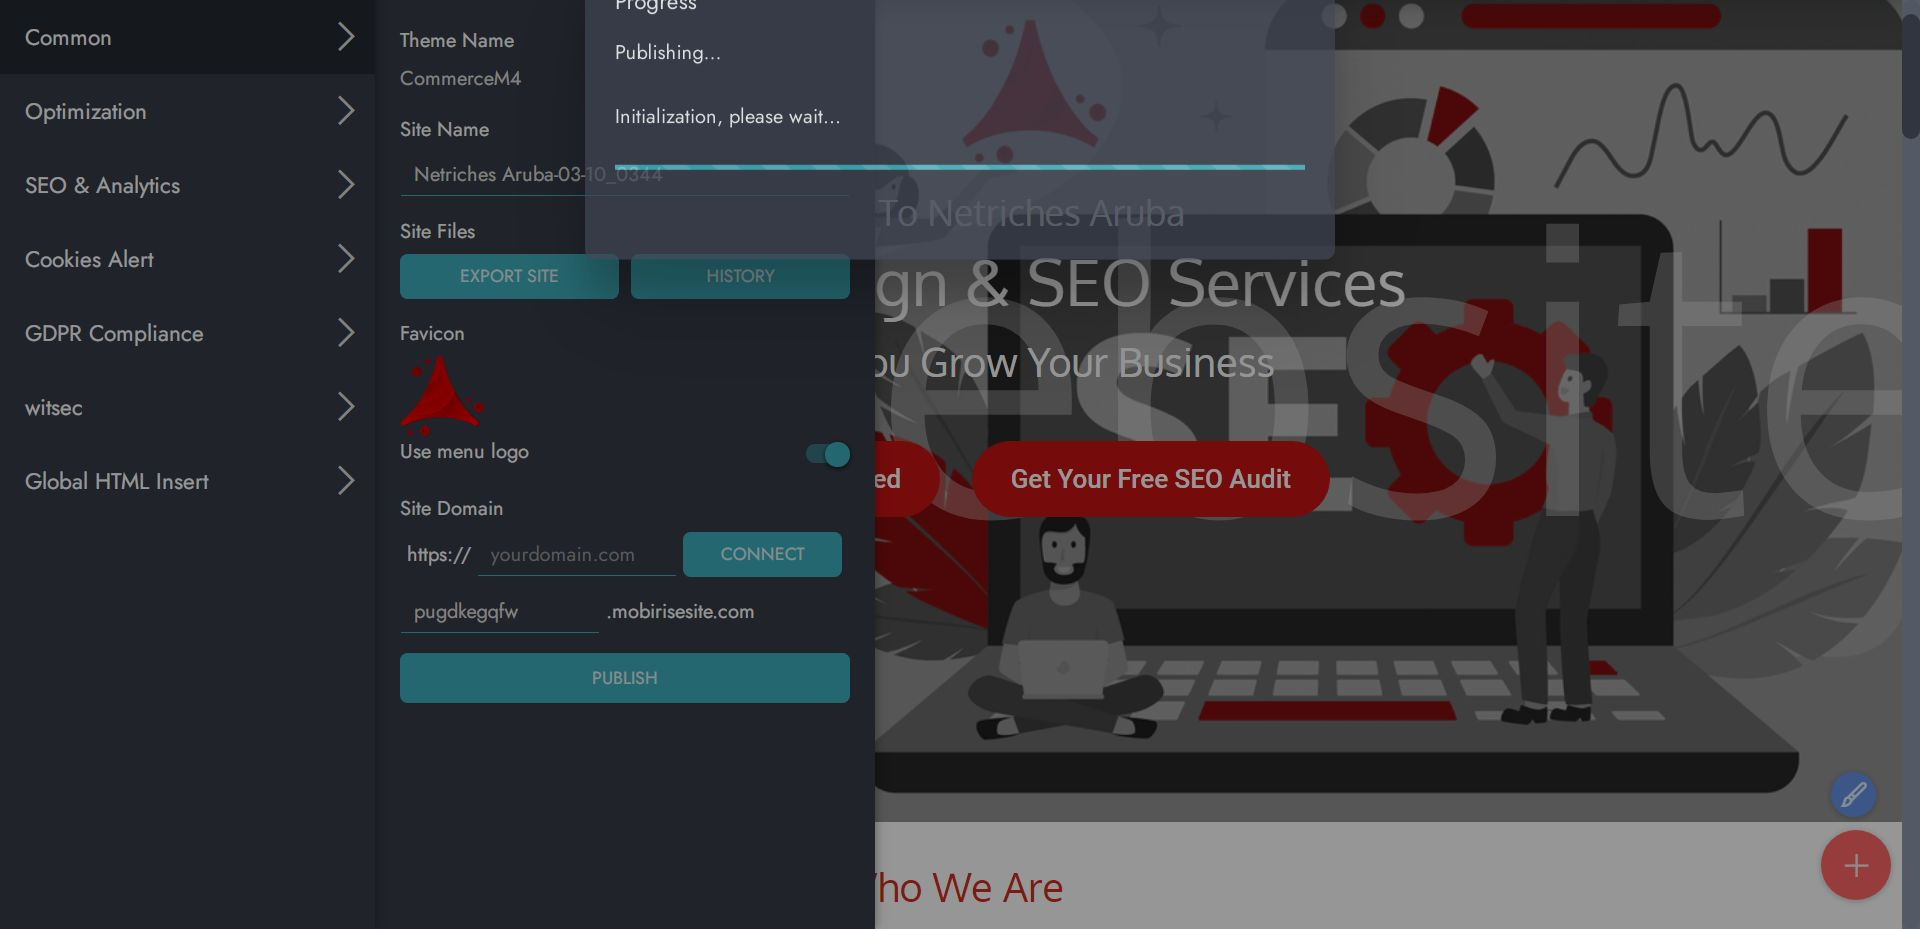
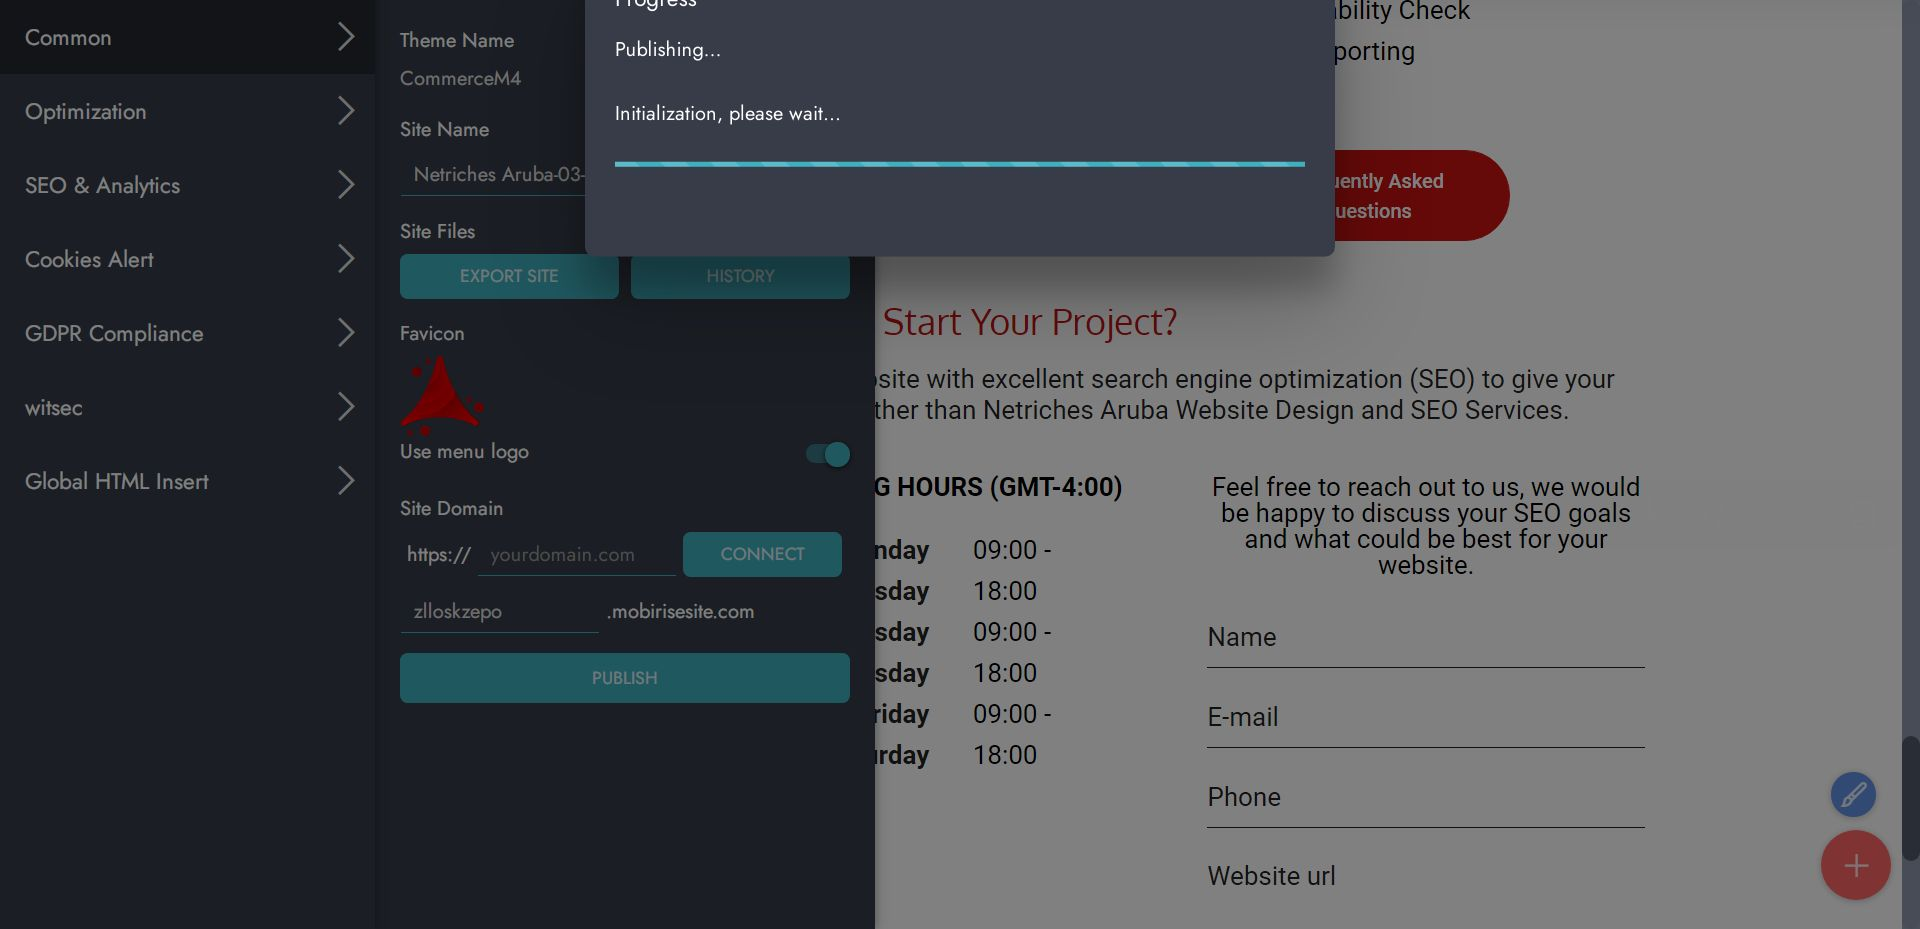
Our Web Design and SEO Services

diff --git a/netrichesaruba-SEO-faqs.html b/netrichesaruba-SEO-faqs.html
@@ -185,16 +185,16 @@ Dynamic sites use server side languages to process requests at the time it’s m
         <div class="row justify-content-center pt-4">
             <div class="col-md-10 col-lg-8 content-block">
             <div class="accordion-content">
-                <div id="bootstrap-accordion_70" class="panel-group accordionStyles accordion " role="tablist" aria-multiselectable="true">
+                <div id="bootstrap-accordion_69" class="panel-group accordionStyles accordion " role="tablist" aria-multiselectable="true">
                         <div class="card">
                             <div class="card-header" role="tab" id="headingOne">
-                                <a role="button" class="collapsed panel-title text-white" data-toggle="collapse" data-core="" href="#collapse1_70" aria-expanded="false" aria-controls="collapse1">
+                                <a role="button" class="collapsed panel-title text-white" data-toggle="collapse" data-core="" href="#collapse1_69" aria-expanded="false" aria-controls="collapse1">
                                     <h4 class="mbr-fonts-style header-text display-7">Why is search engine optimization important to a business?</h4>
                                     <span class="sign mbr-iconfont mbri-arrow-down inactive"></span>
 
                                 </a>
                             </div>
-                            <div id="collapse1_70" class="panel-collapse noScroll collapse" role="tabpanel" aria-labelledby="headingOne" data-parent="#bootstrap-accordion_70">
+                            <div id="collapse1_69" class="panel-collapse noScroll collapse" role="tabpanel" aria-labelledby="headingOne" data-parent="#bootstrap-accordion_69">
                                 <div class="panel-body p-4">
                                     <p class="mbr-fonts-style panel-text mbr-text display-7"><strong>
                                        Search engine optimization (SEO) is important because: </strong>SEO (Search engine optimization) is the process of making a web page easy to find, easy to crawl, and easy to categorize. SEO is good for the social promotion of your web site.<br><br>Consumers today live in a digital world. According to Accenture, an estimated 94% of B2B buyers say that they search online before making a purchase. Brands that do not take the initiative to leverage and understand the importance of SEO will be left behind and miss out on a great deal of value they could be adding to their business.<br></p>
@@ -204,13 +204,13 @@ Dynamic sites use server side languages to process requests at the time it’s m
                 
                         <div class="card">
                             <div class="card-header" role="tab" id="headingTwo">
-                                <a role="button" class="collapsed panel-title text-white" data-toggle="collapse" data-core="" href="#collapse2_70" aria-expanded="false" aria-controls="collapse2">
+                                <a role="button" class="collapsed panel-title text-white" data-toggle="collapse" data-core="" href="#collapse2_69" aria-expanded="false" aria-controls="collapse2">
                                     <h4 class="mbr-fonts-style header-text display-7">What is the SEO in marketing? &nbsp; &nbsp; &nbsp; &nbsp; &nbsp; &nbsp; &nbsp; &nbsp; &nbsp; &nbsp; &nbsp; &nbsp; &nbsp; &nbsp; &nbsp; &nbsp; &nbsp; &nbsp;&nbsp;</h4>
                                     <span class="sign mbr-iconfont mbri-arrow-down inactive"></span>
                                 </a>
                                 
                             </div>
-                            <div id="collapse2_70" class="panel-collapse noScroll collapse" role="tabpanel" aria-labelledby="headingTwo" data-parent="#bootstrap-accordion_70">
+                            <div id="collapse2_69" class="panel-collapse noScroll collapse" role="tabpanel" aria-labelledby="headingTwo" data-parent="#bootstrap-accordion_69">
                                 <div class="panel-body p-4">
                                     <p class="mbr-fonts-style panel-text mbr-text display-7"><strong>
                                        SEO </strong>is an integral part of any <strong>Digital Marketing Strategy</strong>. It is basically concerned with a holistic move towards driving customers to your business via online platforms. Digital marketing is sending out the name of your products or services to the targeted audience through the digital medium through paid promotions. Digital marketing has gone through many stages, and now we are here where merely social media occupy almost 80 to 85 percent of the digital marketing.</p>
@@ -220,13 +220,13 @@ Dynamic sites use server side languages to process requests at the time it’s m
                 
                         <div class="card">
                             <div class="card-header" role="tab" id="headingThree">
-                                <a role="button" class="collapsed panel-title text-white" data-toggle="collapse" data-core="" href="#collapse3_70" aria-expanded="false" aria-controls="collapse3">
+                                <a role="button" class="collapsed panel-title text-white" data-toggle="collapse" data-core="" href="#collapse3_69" aria-expanded="false" aria-controls="collapse3">
                                     <h4 class="mbr-fonts-style header-text display-7">Design and Web Development?</h4>
                                     <span class="sign mbr-iconfont mbri-arrow-down inactive"></span>
 
                                 </a>
                             </div>
-                            <div id="collapse3_70" class="panel-collapse noScroll collapse" role="tabpanel" aria-labelledby="headingThree" data-parent="#bootstrap-accordion_70">
+                            <div id="collapse3_69" class="panel-collapse noScroll collapse" role="tabpanel" aria-labelledby="headingThree" data-parent="#bootstrap-accordion_69">
                                 <div class="panel-body p-4">
                                     <p class="mbr-fonts-style panel-text mbr-text display-7"><strong>Developers</strong> build a website’s core structure using coding languages, while <strong>Designers</strong> are more visually creative and user-focused. Developers use their programming knowledge to breathe life into the designer’s creative vision. Think of developers as construction workers, and web designers as architects – both necessary, but different, skill sets.</p>
                                 </div>
@@ -235,13 +235,13 @@ Dynamic sites use server side languages to process requests at the time it’s m
                 
                         <div class="card">
                             <div class="card-header" role="tab" id="headingFour">
-                                <a role="button" class="collapsed panel-title text-white" data-toggle="collapse" data-core="" href="#collapse4_70" aria-expanded="false" aria-controls="collapse4">
+                                <a role="button" class="collapsed panel-title text-white" data-toggle="collapse" data-core="" href="#collapse4_69" aria-expanded="false" aria-controls="collapse4">
                                     <h4 class="mbr-fonts-style header-text display-7">Static vs Dynamic Website Design? &nbsp; &nbsp; &nbsp; &nbsp; &nbsp; &nbsp; &nbsp; &nbsp; &nbsp; &nbsp; &nbsp; &nbsp; &nbsp; &nbsp; &nbsp; &nbsp; &nbsp;&nbsp;</h4>
                                     <span class="sign mbr-iconfont mbri-arrow-down inactive"></span>
 
                                 </a>
                             </div>
-                            <div id="collapse4_70" class="panel-collapse noScroll collapse" role="tabpanel" aria-labelledby="headingFour" data-parent="#bootstrap-accordion_70">
+                            <div id="collapse4_69" class="panel-collapse noScroll collapse" role="tabpanel" aria-labelledby="headingFour" data-parent="#bootstrap-accordion_69">
                                 <div class="panel-body p-4">
                                     <p class="mbr-fonts-style panel-text mbr-text display-7">With <strong>static websites</strong>, the individual web pages are shown to the user as they are stored. In the case of the CLT website, we use a so-called Static Site Generator to build these static pages. Simply put, the static site generator is a program that converts source files into web pages. These source files are templates that are enriched with data by the static site generator. This data can be retrieved through an API from a third party during this process if necessary.<br><br><strong>Dynamic sites</strong> use server side languages to process requests at the time it’s made and generate a page and its contents in real-time. This means that dynamic websites interact with the user accessing the site and render content depending on the user’s actions or settings. One example of a dynamic website is web apps. Take Twitter as an example: when you log in, it displays content just for you.</p>
                                 </div>
@@ -250,13 +250,13 @@ Dynamic sites use server side languages to process requests at the time it’s m
                 
                         <div class="card">
                             <div class="card-header" role="tab" id="headingFive">
-                                <a role="button" class="collapsed panel-title text-white" data-toggle="collapse" data-core="" href="#collapse5_70" aria-expanded="false" aria-controls="collapse5">
+                                <a role="button" class="collapsed panel-title text-white" data-toggle="collapse" data-core="" href="#collapse5_69" aria-expanded="false" aria-controls="collapse5">
                                     <h4 class="mbr-fonts-style header-text display-7">What is a website audit and why do I need one?</h4>
                                     <span class="sign mbr-iconfont mbri-arrow-down inactive"></span>
 
                                 </a>
                             </div>
-                            <div id="collapse5_70" class="panel-collapse noScroll collapse" data-parent="#bootstrap-accordion_70" role="tabpanel" aria-labelledby="headingFive">
+                            <div id="collapse5_69" class="panel-collapse noScroll collapse" data-parent="#bootstrap-accordion_69" role="tabpanel" aria-labelledby="headingFive">
                                 <div class="panel-body p-4">
                                     <p class="mbr-fonts-style panel-text mbr-text display-7">
                                        If you already have a website and are ready to improve its search engine visibility, then a website audit (or “<strong>site audit</strong>”) is a good starting point. An SEO audit is standard procedure for any website. In fact, if you are serious about your<strong> internet business</strong>, you will make sure you do it frequently. An SEO audit is the process of analyzing how well your web presence relates to best practices. It is the first step to creating an implementation plan that will have measurable results on website structure issues. On-page SEO issues. Potential off-site problems. User experience issues.</p>

diff --git a/index.html b/index.html
@@ -749,10 +749,7 @@
                     <span>Saturday</span><br>
                 </div>
                 <div class="col-5 hours-column mbr-fonts-style align-left mbr-text display-7">
-                    <span>09:00 - 18:00</span>
-                    <span>09:00 - 18:00</span>
-                    <span>09:00 - 18:00</span>
-                    <span>09:00 - 18:00</span>
+                    <span><span style="display: inline !important;">09:00 - 18:00</span><br></span>
                     <span>09:00 - 18:00</span>
                     <span>09:00 - 18:00</span><br>
                 </div>
@@ -760,7 +757,7 @@
             <div class="form-1 col-sm-12 col-md-5 col-xl-4 col-lg-3" data-form-type="formoid">
                 <h3 class="form-title pb-3 mbr-fonts-style align-center display-7">Feel free to reach out to us, we would be happy to discuss your SEO goals and what could be best for your website.</h3>
                 <div data-form-alert="" hidden="">Thank you for requesting a website audit. Your request has been submitted to our team successfully.</div>
[2 lines of base64/hex data omitted]
                     <div class="input-wrap" data-for="name">
                         <input type="text" class="field display-7" name="name" placeholder="Name" data-form-field="Name" required="" id="name-footer4-0">
                     </div>
